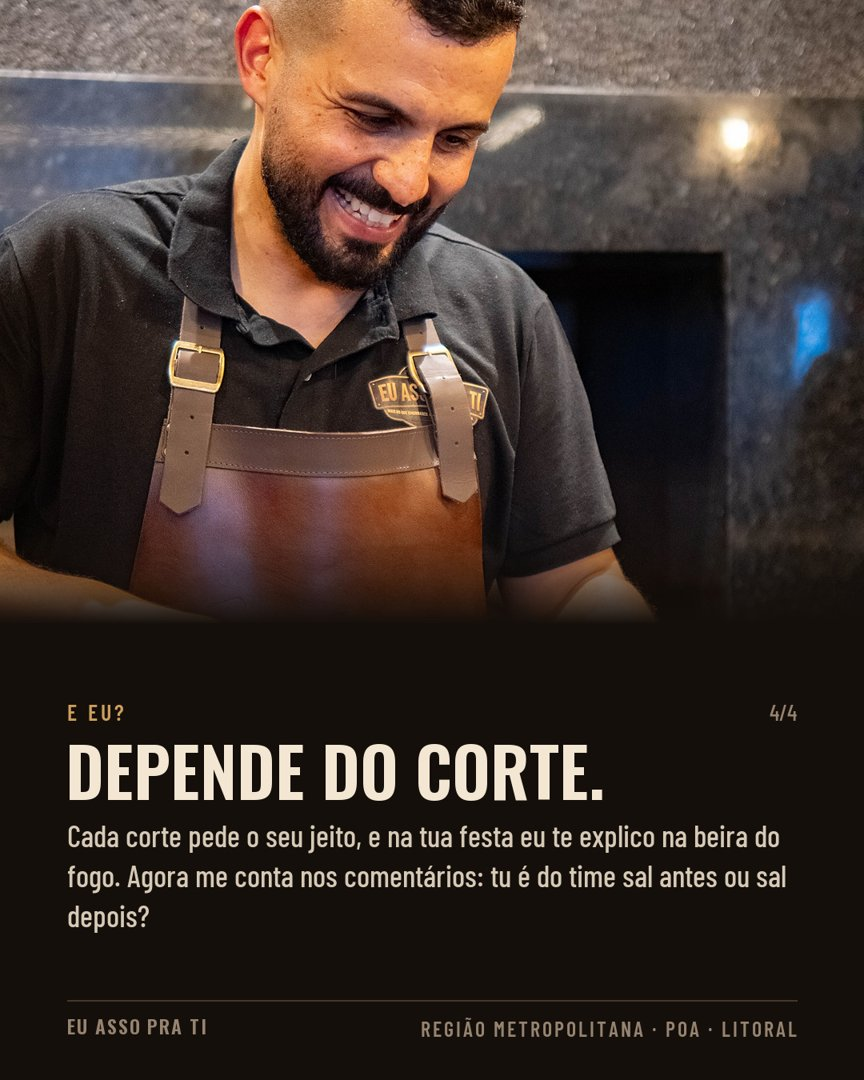
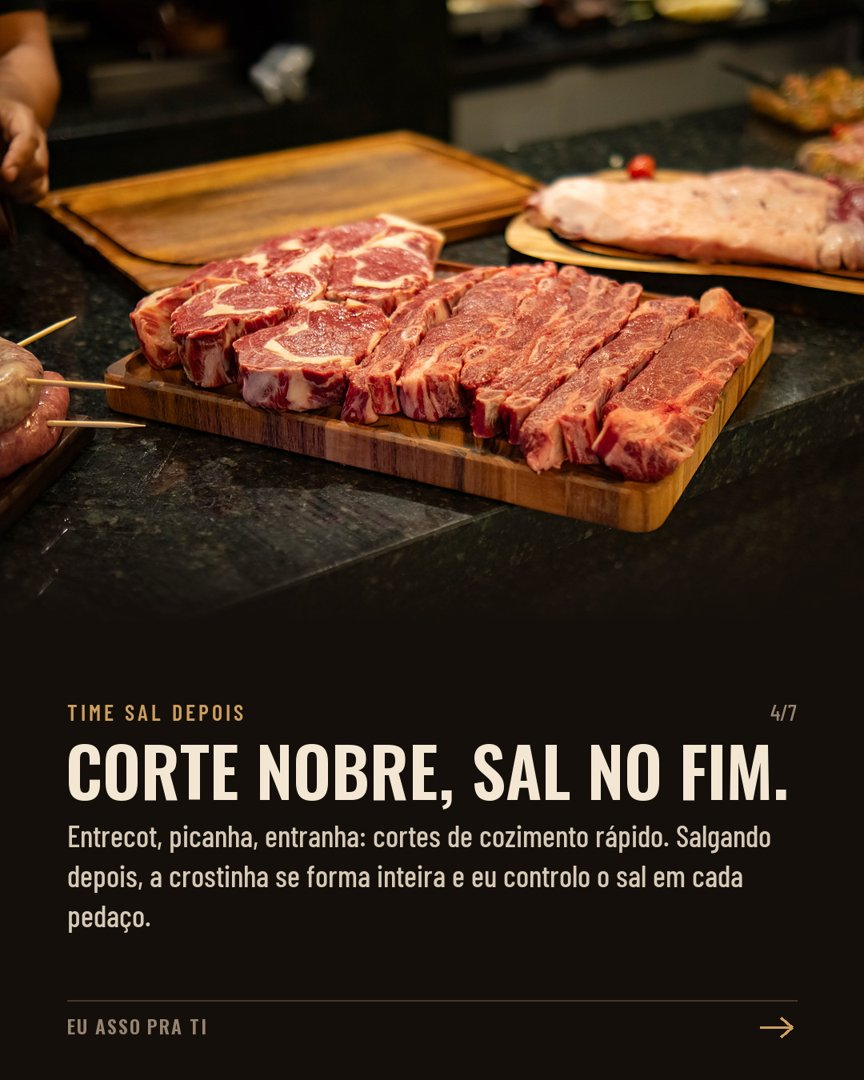
Calendário: post 07 refeito com a explicação do Diego

diff --git a/calendario/index.html b/calendario/index.html
@@ -68,7 +68,7 @@ footer{font:500 .9rem var(--label);color:var(--muted);letter-spacing:.06em;borde
 <section>
   <p class="k">A semana</p>
   <div class="week">
-    <div class="day"><small>Terça 20/10 · 21h</small><b>Sal antes ou depois?</b><span class="tag on">Pronto</span></div>
+    <div class="day now"><small>Terça 20/10 · 21h</small><b>Sal antes ou depois?</b><span class="tag on">Com teus ajustes</span></div>
     <div class="day"><small>Quinta 22/10 · 21h</small><b>Sobremesas no fogo</b><span class="tag">Falta foto</span></div>
     <div class="day"><small>Sábado 24/10 · 21h</small><b>Antes da tua festa</b><span class="tag on">Pronto</span></div>
   </div>
@@ -77,35 +77,43 @@ footer{font:500 .9rem var(--label);color:var(--muted);letter-spacing:.06em;borde
 <section>
   <p class="k">O que preciso de ti</p>
   <ul class="dl">
-    <li><b>Até segunda 19/10</b><span>Teus pitacos de texto nos três posts, num áudio só.</span></li>
+    <li><b>Até segunda 19/10</b><span>Teus pitacos de quinta e sábado, um áudio pra cada.</span></li>
     <li><b>Até segunda 19/10</b><span>Subir no Drive (01 Fotos/Pode usar) as fotos de sobremesa que tu me mandou no grupo, incluindo o Martín Fierro.</span></li>
-    <li><b>No post de terça</b><span>Me diz a tua resposta: tu é do time sal antes ou sal depois? Deixei "depende do corte", mas se tu tiver lado, fica mais forte.</span></li>
+    <li><b>Post de terça</b><span>Recebido e aplicado. Se tu mandar o texto sobre a reação de Maillard, eu confiro se ficou tudo certo.</span></li>
   </ul>
 </section>
 
 <section>
   <div class="post-head"><p class="k" style="margin:0">Terça 20/10 · 21h</p><span class="tag on">Pronto</span></div>
   <h2>Post 7: sal antes ou sal depois?</h2>
-  <p>A tua ideia: a discussão que nunca acaba na beira da churrasqueira. Um post de conversa, pra galera comentar e o perfil aparecer pra mais gente.</p>
+  <p>Refeito com a tua explicação: a capa com o teu sal grosso, a reação de Maillard, quando salgar antes, quando salgar depois, como tu faz e por que não salgar o corte nobre antes. Fecha com o teu time: depende do corte.</p>
   <div class="car" aria-label="Imagens do post 7">
     <img src="img/p7-01.jpg" alt="Capa: Sal antes ou sal depois?" loading="lazy">
-    <img src="img/p7-02.jpg" alt="Time sal antes" loading="lazy">
-    <img src="img/p7-03.jpg" alt="Time sal depois" loading="lazy">
-    <img src="img/p7-04.jpg" alt="E eu? Depende do corte" loading="lazy">
+    <img src="img/p7-02.jpg" alt="A crostinha faz a diferença" loading="lazy">
+    <img src="img/p7-03.jpg" alt="Time sal antes" loading="lazy">
+    <img src="img/p7-04.jpg" alt="Time sal depois" loading="lazy">
+    <img src="img/p7-05.jpg" alt="Descansa, fatia, salga" loading="lazy">
+    <img src="img/p7-06.jpg" alt="Sal cedo tira o sabor" loading="lazy">
+    <img src="img/p7-07.jpg" alt="E eu? Depende do corte" loading="lazy">
   </div>
-  <p class="hint">Arrasta para o lado para ver as 4 imagens.</p>
+  <p class="hint">Arrasta para o lado para ver as 7 imagens.</p>
   <details><summary>Ver a legenda</summary><div class="cap">Sal antes ou sal depois? 🧂🔥
 
-Essa é a discussão que nunca acaba na beira da churrasqueira.
+A discussão que nunca acaba na beira da churrasqueira. Antes de escolher o teu time, vale entender o porquê.
 
-🥩 Time sal antes: sal grosso na carne e direto pra brasa. O jeito raiz.
-🔪 Time sal depois: carne no ponto, fatiada na tábua e o sal por cima. Tem quem diga que é frescura, tem quem não abra mão.
+🔥 No fogo acontece a reação de Maillard: o calor em contato com a carne cria aquela crostinha bonita e saborosa. E o sal mexe nesse processo.
 
-E eu? Depende do corte. Cada um pede o seu jeito, e na tua festa eu te explico tudo na beira do fogo.
+🥩 Sal antes: o jeito tradicional, raiz. Pra cortes de fogo lento, como o costelão, sal grosso antes e pode ir pra brasa sem medo.
 
-Agora me conta aqui nos comentários: tu é do time sal antes ou sal depois? 👇
+🔪 Sal depois: pra cortes nobres e rápidos, como entrecot, picanha e entranha. A carne sai do fogo, descansa de 3 a 5 minutos pro suco se espalhar, eu fatio e salgo com sal de parrilla, mais fino. Assim a crostinha se forma inteira, eu controlo o sal em cada pedaço e tu sente mais a carne do que o sal.
 
-📸 @francofilms_
+⚠ E por que não salgar o corte nobre muito antes? O sal vai puxando o líquido da carne, e com ele vai o sabor. Num corte com marmoreio, é jogar fora o melhor dele.
+
+E eu? Depende do corte. Costelão, sal grosso antes. Entrecot, picanha e entranha, sal depois.
+
+Agora me conta aqui nos comentários: tu é de qual time? 👇
+
+📸 @francofilms_ e @taiguara_filmes
 📍 Região Metropolitana, Porto Alegre e Litoral
 
 #churrascograndepoa #churrascopoa #churrasconolitoral #churrascoparaeventos #churrasqueiroadomicilio</div></details>
